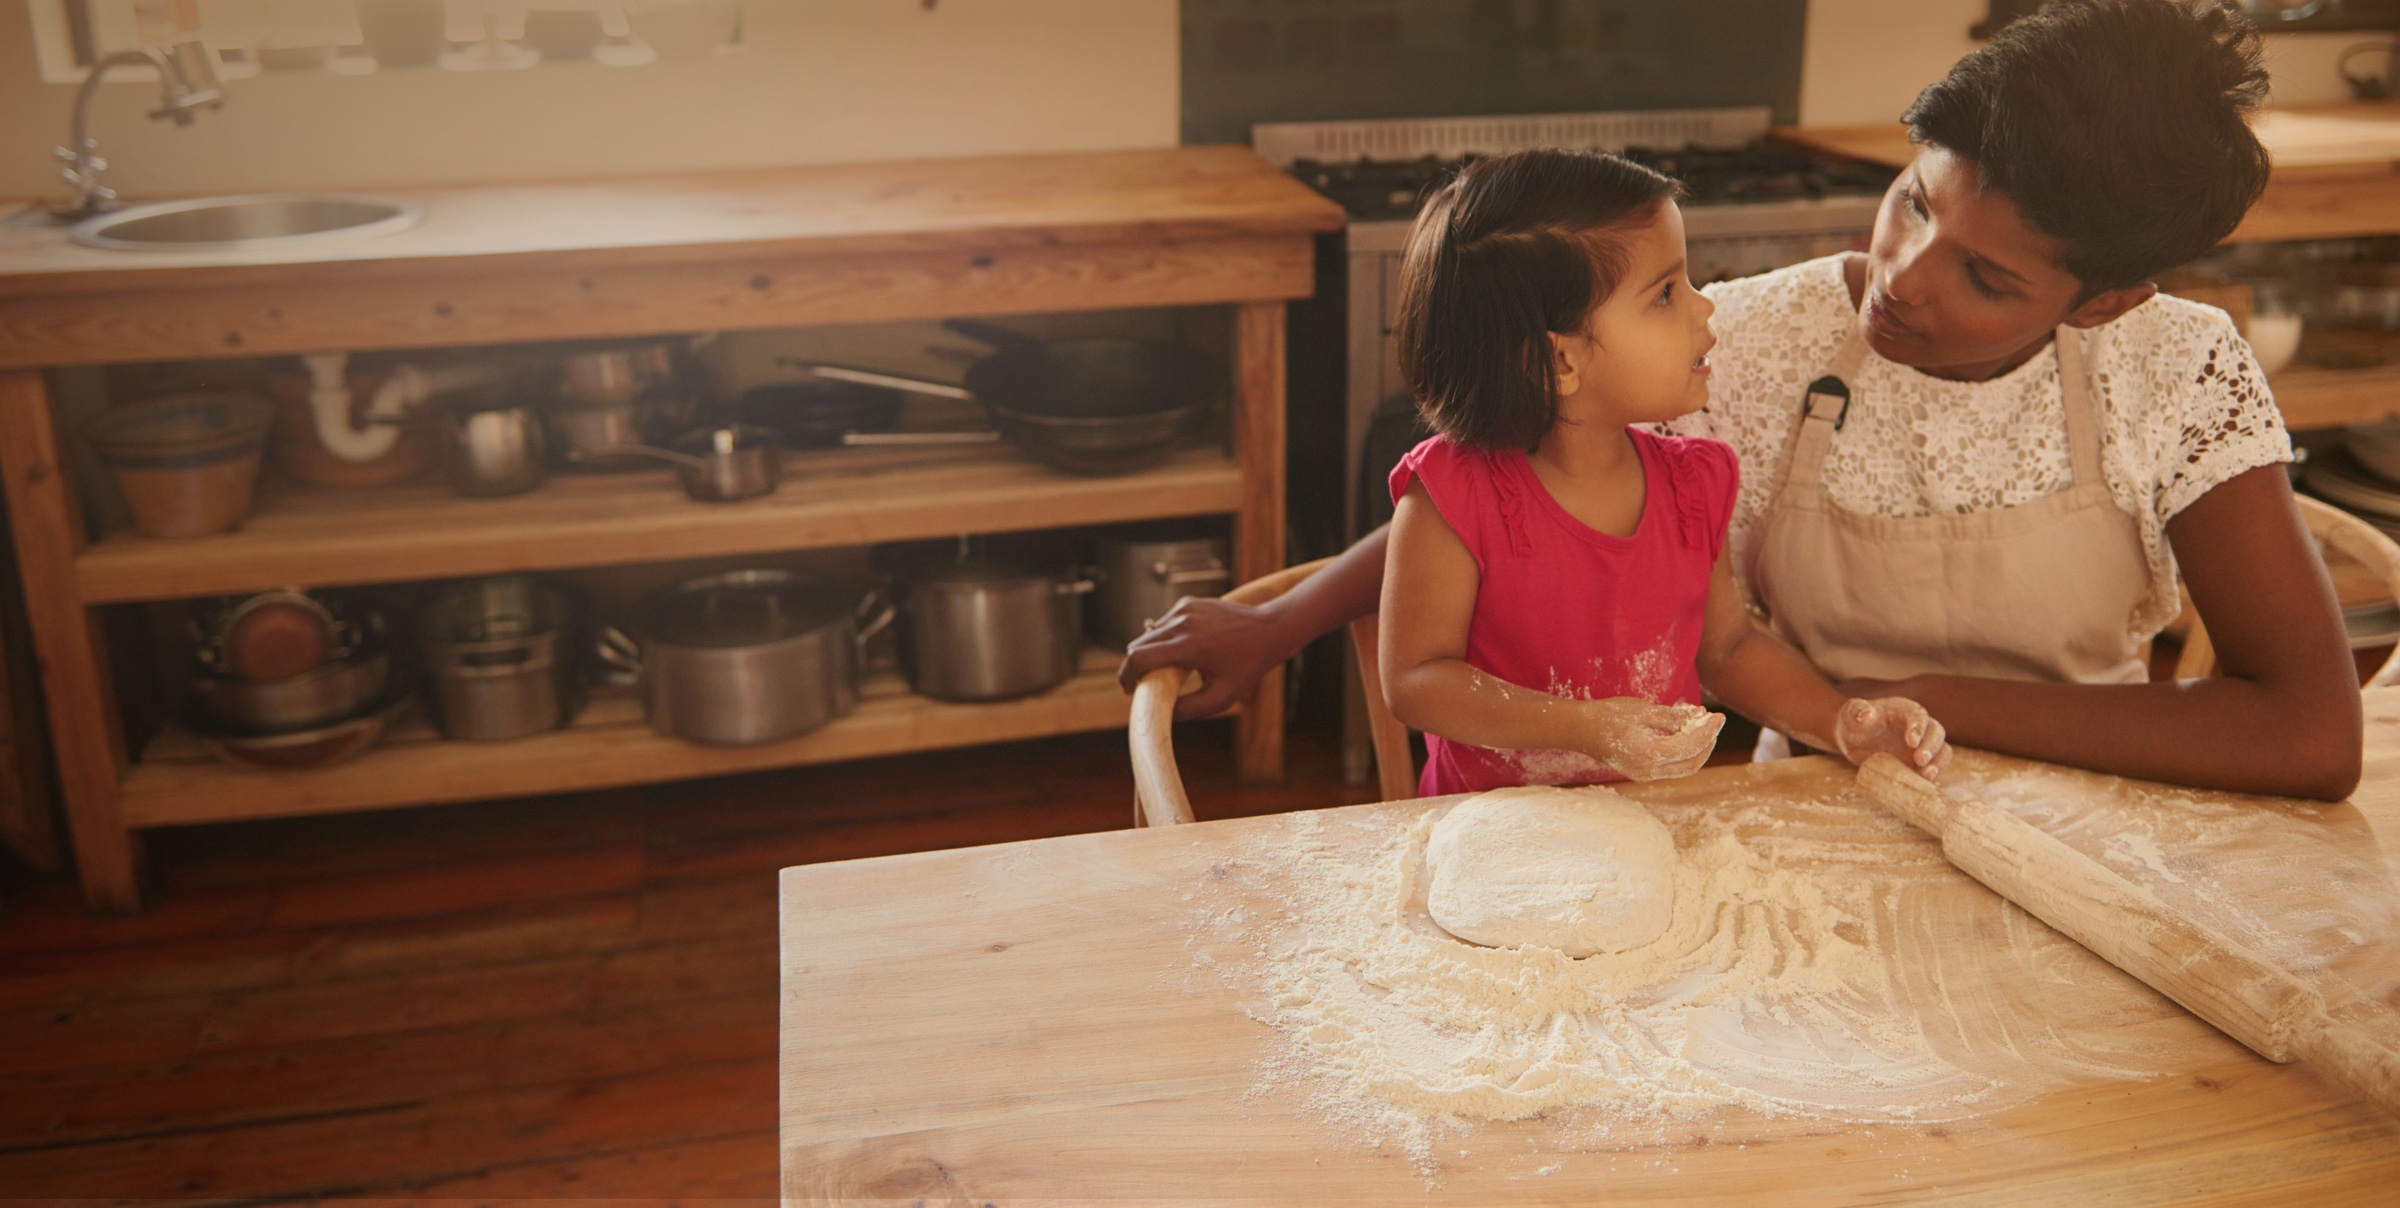
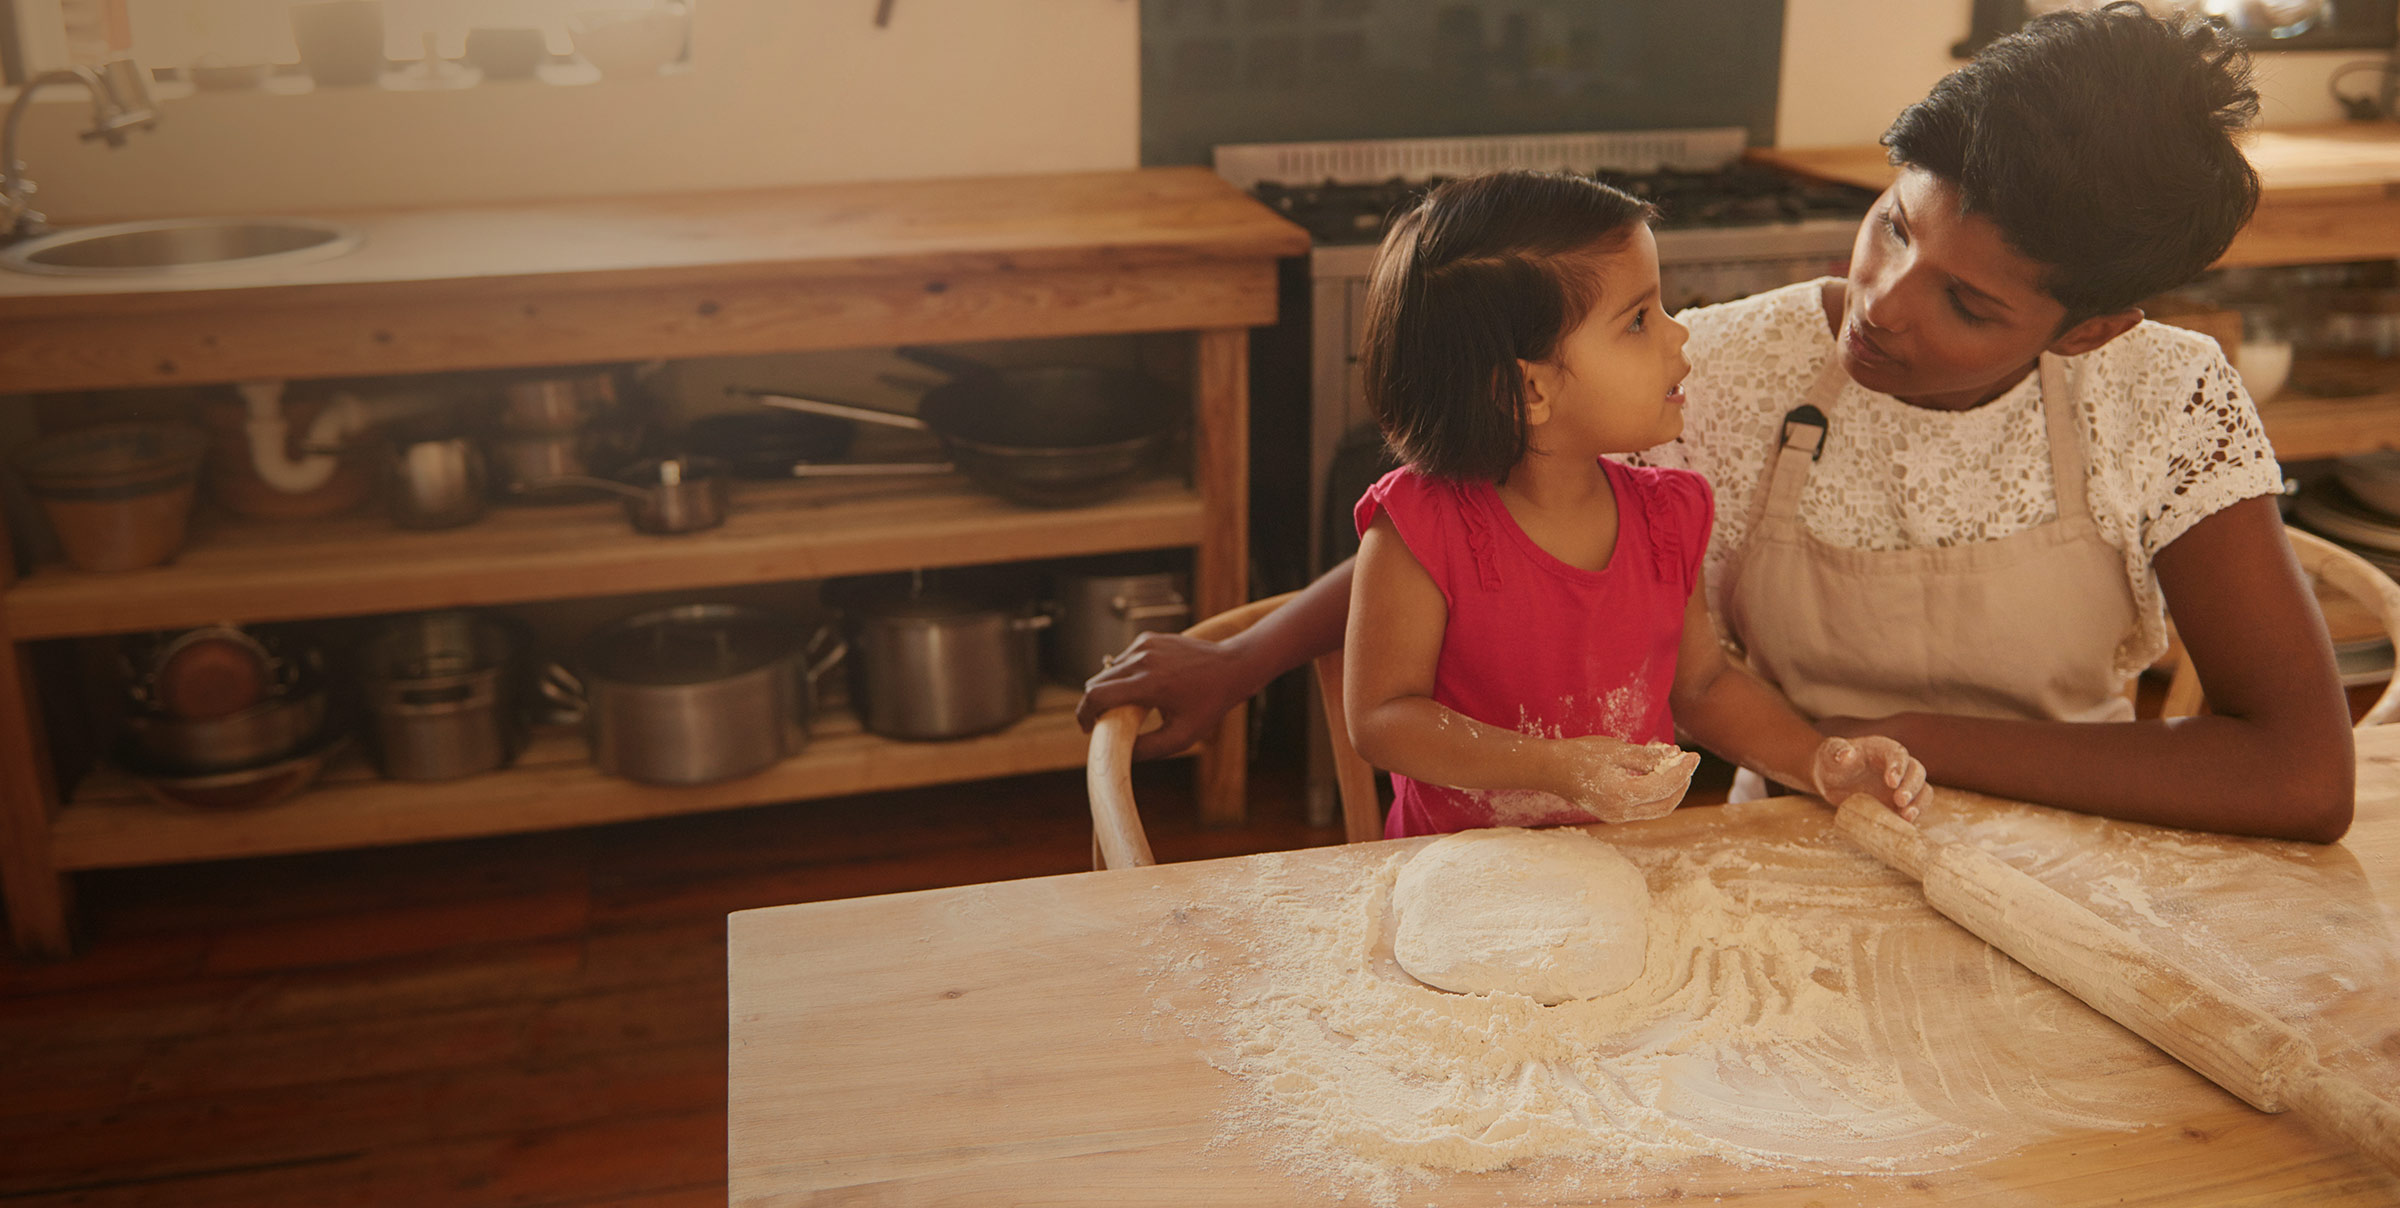
Build

diff --git a/src/components/Header/index.js b/src/components/Header/index.js
@@ -17,6 +17,7 @@ export class Header extends Component {
   static propTypes = {
     dispatch: React.PropTypes.func,
     showPhoneMenu: React.PropTypes.bool,
+    showLoginMenu: React.PropTypes.bool,
   }
 
   constructor(props) {
@@ -58,7 +59,7 @@ export class Header extends Component {
 
   render() {
     const { show } = this.state;
-    const { showPhoneMenu } = this.props;
+    const { showPhoneMenu, showLoginMenu } = this.props;
 
     function renderNav() {
       return (
@@ -71,17 +72,17 @@ export class Header extends Component {
                 activeClassName="active">
             Investment oportuninties
           </Link> */ }
-          <Link to="faq"
+          <a href="https://golanded.zendesk.com/hc/en-us"
                 activeClassName="active">
             F.A.Q.
-          </Link>
+          </a>
         </nav>
       );
     }
 
     function renderLogin() {
       return (
-        <button className="login hidden-xs hidden-sm">
+        <button className={ `login hidden-xs hidden-sm ${ showLoginMenu ? 'hide' : '' }` }>
           Log in
         </button>
       );
@@ -103,7 +104,8 @@ export class Header extends Component {
                 <div className="col-xs-12 col-sm-12 col-md-6 col-lg-6 hidden-xs hidden-sm">
                   { renderNav() }
                 </div>
-                <div className="col-xs-12 col-sm-12 col-md-3 col-lg-3 text-right hidden-xs hidden-sm">
+                <div className="col-xs-12 col-sm-12 col-md-3 col-lg-3 text-right hidden-xs hidden-sm"
+                     onClick={ () => { this.actions.showLoginMenu(true); } }>
                   { renderLogin() }
                 </div>
                 <div className="col-xs-12 col-sm-12 hidden-md hidden-lg text-right"
@@ -120,7 +122,8 @@ export class Header extends Component {
                 <div className="col-xs-12 col-sm-8 col-md-8 col-lg-9">
                   { renderNav() }
                 </div>
-                <div className="col-xs-12 col-sm-4 col-md-4 col-lg-3 text-right">
+                <div className="col-xs-12 col-sm-4 col-md-4 col-lg-3 text-right"
+                     onClick={ () => { this.actions.showLoginMenu(true); } }>
                   { renderLogin() }
                 </div>
               </div>
@@ -132,9 +135,19 @@ export class Header extends Component {
         </ReactCSSTransitionGroup>
         <div className={ `phone-menu ${ showPhoneMenu ? 'show' : '' }` }>
           { renderNav() }
-          <div className="text-center">
+          <div className="text-center"
+               onClick={ () => { this.actions.showLoginMenu(true); } }>
             { renderLogin() }
           </div>
+        </div>
+        <div className={ `login-menu ${ showLoginMenu ? 'show' : '' }` }>
+          <span className="cross"
+                onClick={ () => { this.actions.showLoginMenu(false); } } />
+          <input type="email" placeholder="e-mail" />
+          <input type="password" placeholder="password" />
+          <submit>
+            Log in
+          </submit>
         </div>
         <div className={ `black-layer ${ showPhoneMenu ? 'show' : '' }` } />
       </section>

diff --git a/src/components/AboutPage/_whyDoesLandedExist.js b/src/components/AboutPage/_whyDoesLandedExist.js
@@ -10,7 +10,7 @@ export class WhyDoesLandedExist extends Component {
               Why does Landed exist?
             </h2>
           </div>
-          <div className="col-xs-12 col-sm-12 col-md-4 col-lg-4 col-md-offset-4 col-lg-offset-4 text-center">
+          <div className="col-xs-10 col-sm-10 col-md-10 col-lg-10 col-xs-offset-1 col-sm-offset-1 col-md-offset-1 col-lg-offset-1 text-center">
             <p>
               Here’s a little story to help tell the tale of why we’re  so focused on changing the housing market, forever:
             </p>
@@ -20,7 +20,7 @@ export class WhyDoesLandedExist extends Component {
           </div>
 
           <div className="row whyDoesLandedExist two-folks">
-            <div className="col-xs-12 col-sm-12 col-md-4 col-lg-4 col-md-offest-2 col-lg-offset-2 text-left">
+            <div className="col-xs-10 col-sm-10 col-md-4 col-lg-4 col-xs-offset-1 col-sm-offset-1 col-md-offset-2 col-lg-offset-2 text-left">
               <p className="black">
                 Richie is a married middle-aged man.  Richie has had a pretty successful life.
               </p>
@@ -34,7 +34,7 @@ export class WhyDoesLandedExist extends Component {
                 - Almost all of his wealth is in diversified financial instruments (stocks, bonds, cash).
               </p>
             </div>
-            <div className="col-xs-12 col-sm-12 col-md-4 col-lg-4 text-left">
+            <div className="col-xs-10 col-sm-10 col-md-4 col-lg-4 col-xs-offset-1 col-sm-offset-1 col-md-offset-2 col-lg-offset-2 text-left">
               <p className="black">
                 Susan is a young married woman about to have her first child. She bought a house just two years ago.
               </p>
@@ -49,7 +49,7 @@ export class WhyDoesLandedExist extends Component {
           </div>
 
           <div className="row whyDoesLandedExist footer-text">
-            <div className="col-xs-12 col-sm-12 col-md-8 col-lg-8 col-md-offest-2 col-lg-offset-2 text-left">
+            <div className="col-xs-10 col-sm-10 col-md-8 col-lg-8 col-xs-offset-1 col-sm-offset-1 col-md-offset-2 col-lg-offset-2 text-left">
               <p>
                 During the ‘Great Recession’, people like Susan (a median homebuyer), lost over 35% of their net worth. People less wealthy than Susan lost everything. Many of them owed more on their mortgage then their house was worth (known as ‘being underwater’). In fact, today, almost eight years later, over 15% of US homeowners are still underwater on their homes.
               </p>

diff --git a/src/components/Header/styles/styles.scss b/src/components/Header/styles/styles.scss
@@ -230,6 +230,97 @@
     }
   }
 
+  .login-menu {
+    opacity: 0;
+    top: -400px;
+
+    transition: .4s;
+
+    background: rgba(0, 0, 0, .64);
+    
+    position: fixed;
+    z-index: 7;
+
+    width: 360px;
+
+    right: 0;
+
+    border-bottom-left-radius: 44px;
+
+    padding: 80px 0 60px;
+
+    &.show {
+      opacity: 1;
+      top: 0;
+    }
+
+    .cross {
+      width: 15px;
+      height: 14px;
+
+      display: inline-block;
+
+      background: url(../files/close.svg);
+      background-size: cover;
+      background-repeat: no-repeat;
+
+      position: absolute;
+
+      top: 40px;
+      right: 40px;
+    }
+
+    input[type="email"],
+    input[type="password"] {
+      display: block;
+
+      width: 80%;
+      margin-left: 10%;
+      margin-bottom: 30px;
+      
+      border: none;
+      border-bottom: 1px solid #FFF;
+      border-radius: 0;
+
+      background: none;
+
+      font-family: 'Jannon10Pro-Italic';
+      font-size: 14px;
+
+      padding: 3px 7px;
+
+      outline: none;
+    
+      $placeholderColor: rgba(255, 255, 255, 1);
+      ::-webkit-input-placeholder {
+        color: $placeholderColor;
+      }
+      ::-moz-placeholder {
+        color: $placeholderColor;
+      }
+      :-moz-placeholder {
+        color: $placeholderColor;
+      }
+      :-ms-input-placeholder {
+        color: $placeholderColor;
+      }
+    }
+
+    submit {
+      right: 40;
+      position: absolute;
+      
+      font-family: 'SupriaSans Regular';
+      font-size: 14px;
+      color: #FFF;
+
+      border: 1px solid #FFF;
+      border-radius: 89px;
+
+      padding: 5px 20px;
+    }
+  }
+
   .black-layer {
     display: none;
 

diff --git a/src/components/AboutPage/_whoIsLanded.js b/src/components/AboutPage/_whoIsLanded.js
@@ -21,7 +21,7 @@ export class WhoIsLanded extends Component {
               </p>
               </div>
             </div>
-            <div className="col-xs-12 col-sm-12 col-md-3 col-lg-3 col-md-offest-3 col-lg-offset-3 text-center">
+            <div className="col-xs-8 col-sm-8 col-md-3 col-lg-3 col-xs-offset-2 col-sm-offset-2 col-md-offset-3 col-lg-offset-3 text-center">
               <img src={ alex } />
               <p className="name">
                 Alex Lofton
@@ -34,7 +34,7 @@ export class WhoIsLanded extends Component {
                  Dancer by night.
               </p>
             </div>
-            <div className="col-xs-12 col-sm-12 col-md-3 col-lg-3 text-center">
+            <div className="col-xs-8 col-sm-8 col-md-3 col-lg-3 col-xs-offset-2 col-sm-offset-2 col-md-offset-0 col-lg-offset-0 text-center">
               <img src={ jonathan } />
               <p className="name">
                 Jonathan Asmis

diff --git a/src/components/Toggle/styles/styles.scss b/src/components/Toggle/styles/styles.scss
@@ -118,6 +118,10 @@
       display: block;
       margin-top: -20px;
 
+      @media (#{ $phone }) {
+        margin-top: -40px;
+      }
+
       span.label {
         font-family: 'Jannon10Pro-Italic';
         font-size: 15px;
@@ -238,6 +242,7 @@
       .state {
         width: 33.3333%;
         display: inline-block;
+        vertical-align: top;
 
         span.state-circle {
           $speed: .4s;
@@ -284,7 +289,7 @@
     color: #FFF;
 
     &.centered {
-      $width: 65%;
+      $width: 85%;
 
       width: $width;
       margin-left: (100 - $width) / 2;

diff --git a/src/components/IntroImage/styles/styles.scss b/src/components/IntroImage/styles/styles.scss
@@ -5,13 +5,13 @@
   width: 100%;
   height: 600px;
 
-  background: url(../files/top-about.png);
+  background: url(../files/top-about.jpg);
   background-size: 100% auto;
 
   @media (#{ $phone }) {
     height: 580px;
 
-    background: url(../files/top-about.png);
+    background: url(../files/mobile-about.jpg);
     background-size: 100% auto;
   }
 
@@ -56,5 +56,9 @@
     color: #FFF;
     font-size: 19px;
     line-height: 24px;
+
+    @media (#{ $phone }) {
+      width: 80%;
+    }
   }
 }

diff --git a/src/reducers/app.js b/src/reducers/app.js
@@ -1,5 +1,6 @@
 const initialState = {
   showPhoneMenu: false,
+  showLoginMenu: false,
 };
 
 export function app(state = initialState, action) {
@@ -8,6 +9,12 @@ export function app(state = initialState, action) {
     return {
       ...state,
       showPhoneMenu: action.act,
+    };
+
+  case 'SHOW_LOGIN':
+    return {
+      ...state,
+      showLoginMenu: action.act,
     };
 
   default:

diff --git a/src/components/YouCan/index.js b/src/components/YouCan/index.js
@@ -71,7 +71,7 @@ export class YouCan extends Component {
                 </div>
                 <div className="col-xs-10 col-sm-10 col-md-12 col-lg-12 text-col">
                   <p>
-                    Bring home that cute pup
+                    Bring home  that cute pup
                   </p>
                 </div>
               </div>

diff --git a/src/components/ImageBlock/styles/styles.scss b/src/components/ImageBlock/styles/styles.scss
@@ -4,7 +4,7 @@
   width: 100%;
   height: 450px;
 
-  background: url(../files/image-block.png);
+  background: url(../files/image-block.jpg);
   background-size: 100% auto;
   
   // TODO: remove

diff --git a/src/components/AboutPage/styles/styles.scss b/src/components/AboutPage/styles/styles.scss
@@ -22,6 +22,11 @@
       margin: 50px 0;
     }
 
+    p {
+      width: 80%;
+      margin-left: 10%;
+    }
+
     &.paragraphs {
       margin: 70px 0;
 

diff --git a/src/actions/app.js b/src/actions/app.js
@@ -5,3 +5,9 @@ export function show(act) {
   };
 }
 
+export function showLoginMenu(act) {
+  return {
+    type: 'SHOW_LOGIN',
+    act,
+  };
+}
